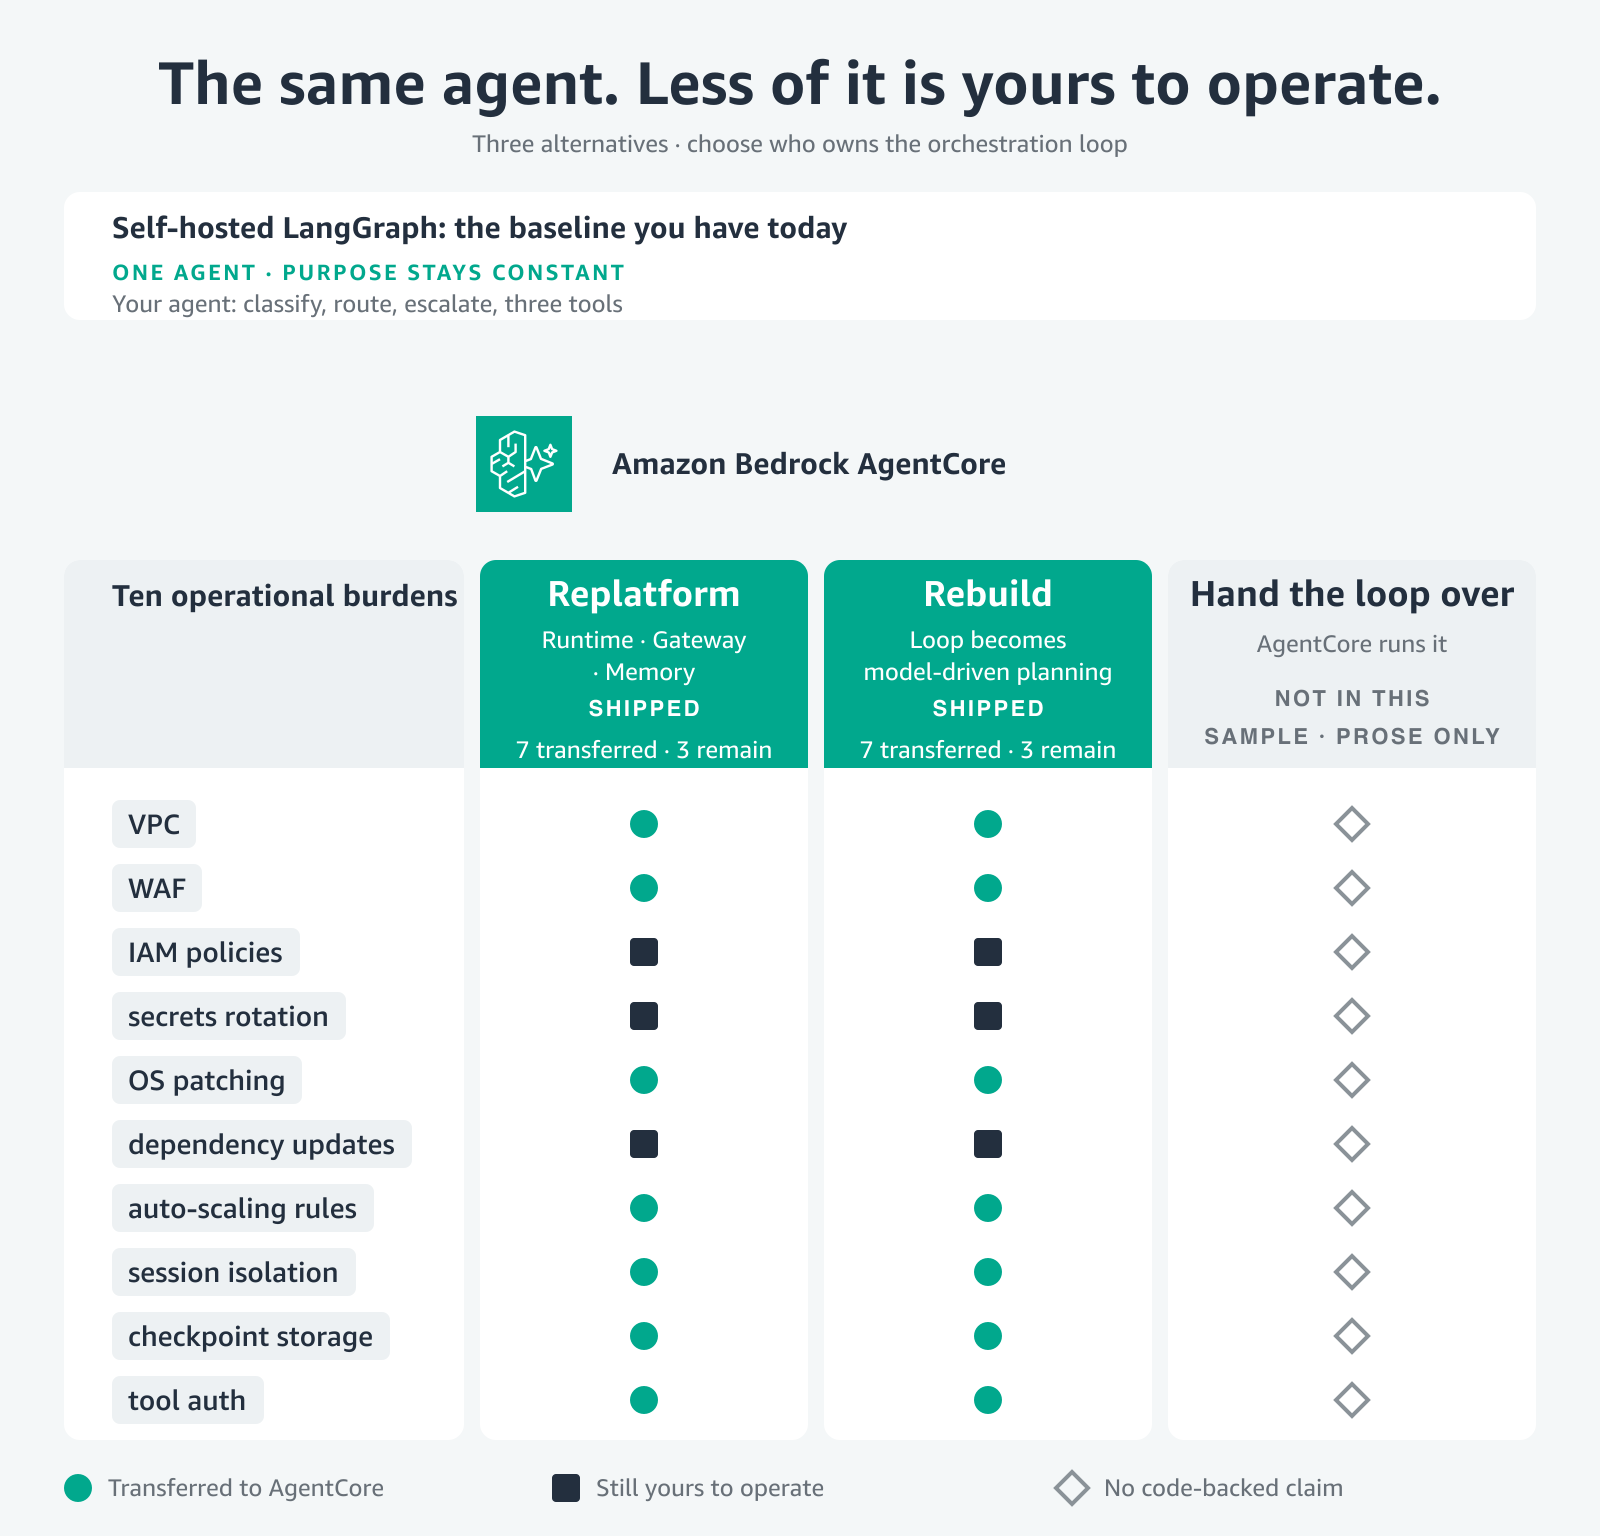
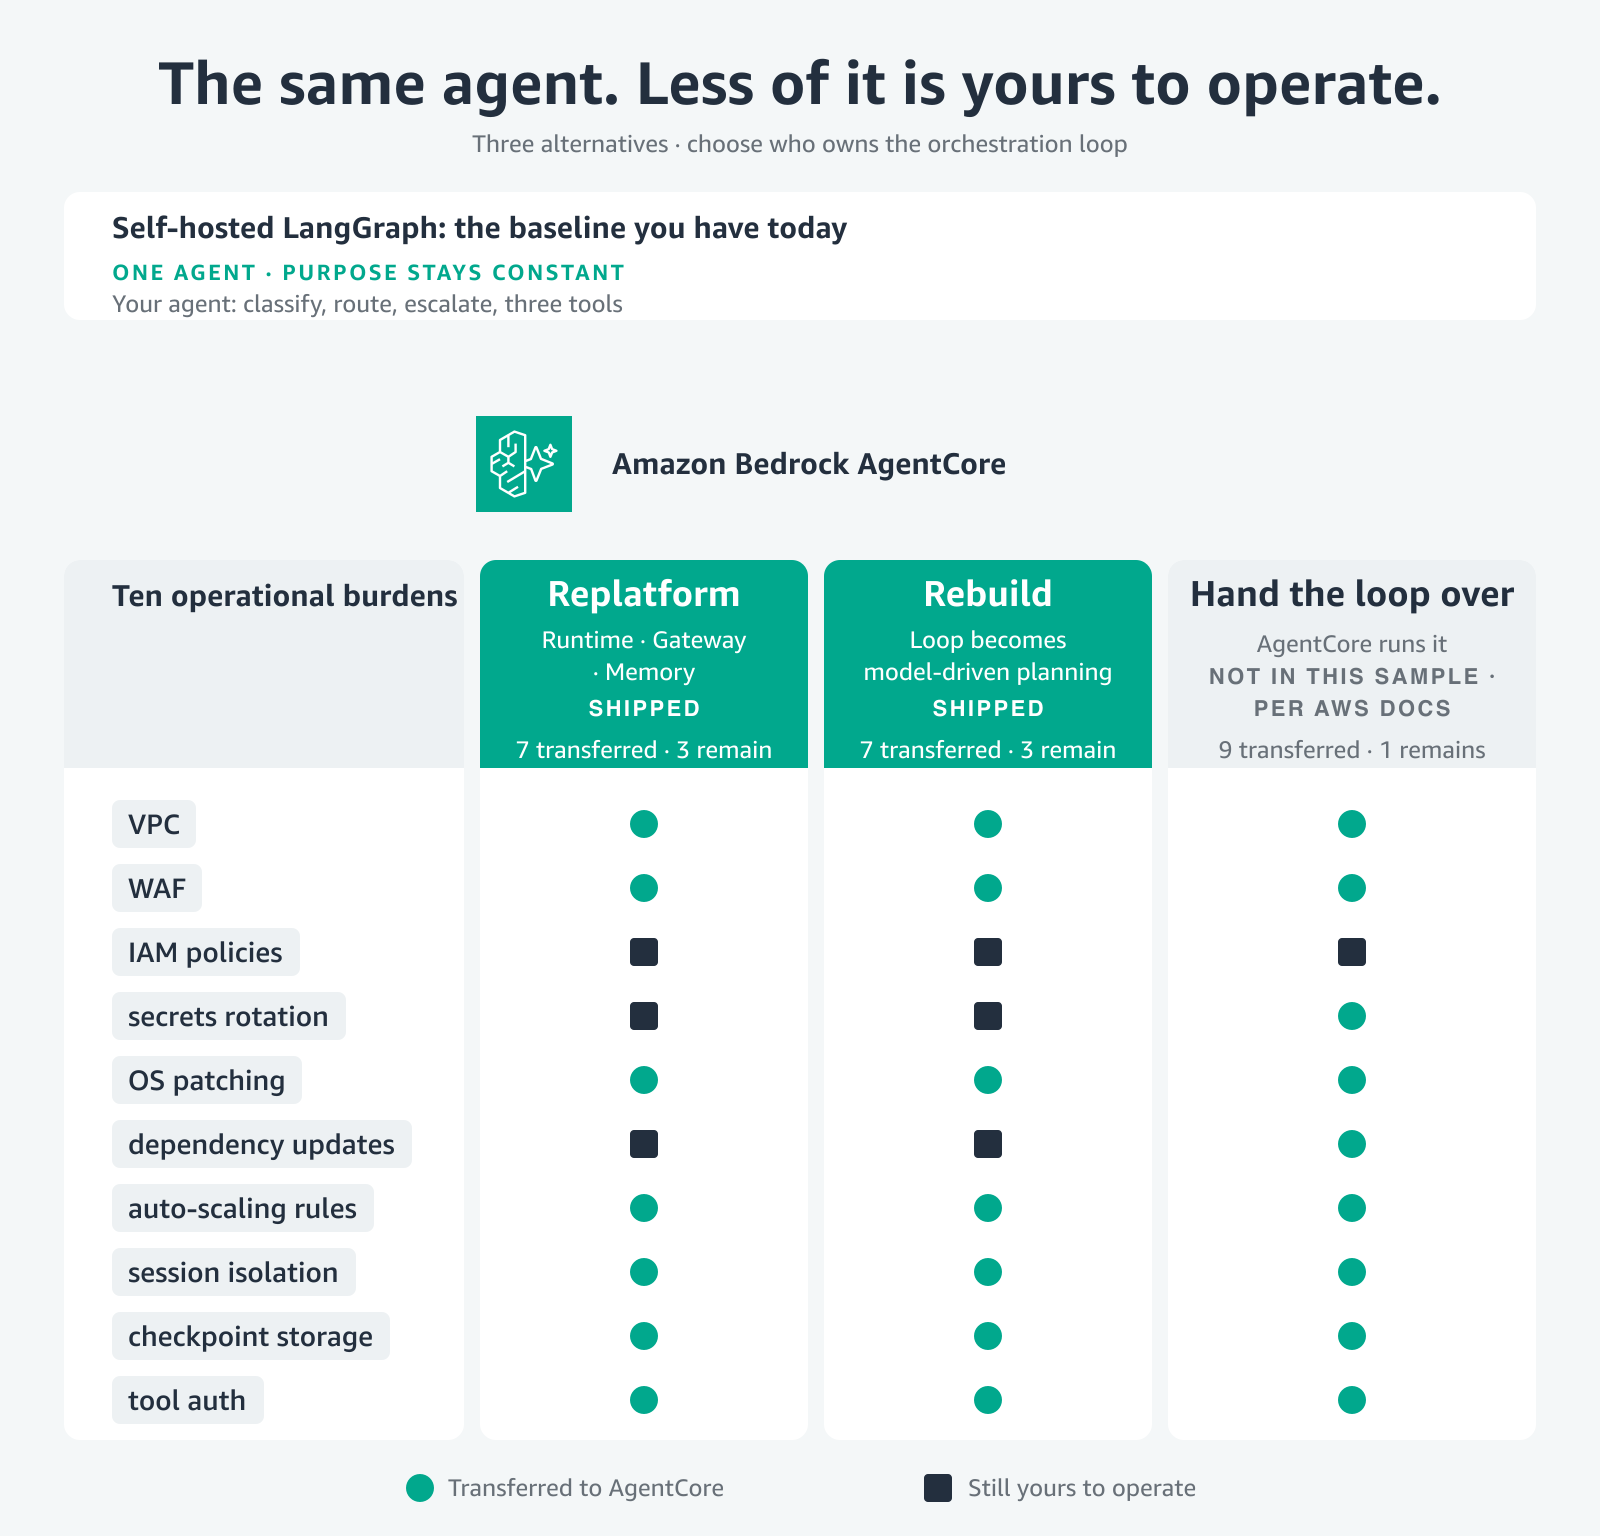
Say what the harness actually transfers
The third column showed ten identical open diamonds and the legend
called them no code-backed claim. That was redundant with the column's
own not-in-this-sample label, and worse, it said we did not know when
AWS publishes a feature grid for the harness.

Read against that grid, the column was understating the path it
describes. The harness runs inside Runtime, so every infrastructure
burden Runtime absorbs it absorbs too, which covers the seven the
shipped paths already transfer. It then adds two the shipped paths
cannot: the identity token vault is configuration for a harness and
customer code for Runtime, which is secrets rotation, and there is no
dependency set you own when the agent is configuration and the
framework is not yours to choose. IAM policies stay yours, because
nothing manages your execution role.

So the column now reads nine transferred and one remains, against seven
and three for both shipped paths, and the figure's argument finally
shows up in the figure: the more of the loop you hand over, the less of
the layer underneath it is yours. The diamond is gone, the legend is
down to two marks, and centring it fixed a 42px left lean that had been
there since the rebuild.

The evidence difference lives in the column header rather than the
glyphs. Two columns say SHIPPED in white on teal, this one says per AWS
docs in grey on grey, and the whole card is untinted where theirs are
filled.

Alt text in the README follows, in both places it appears.

diff --git a/README.md b/README.md
@@ -16,7 +16,7 @@ And here is what stage 2 changes, if you choose to rebuild the loop:
 
 Operating burden, across all three migration paths:
 
-![Comparison matrix titled "The same agent. Less of it is yours to operate." Subtitle: three alternatives, choose who owns the orchestration loop. A band across the top names the baseline, self-hosted LangGraph, and states that one agent's purpose stays constant across all three paths: classify, route, escalate, three tools. An Amazon Bedrock AgentCore icon labels the section beneath it. Ten operational burdens run down the left column: VPC, WAF, IAM policies, secrets rotation, OS patching, dependency updates, auto-scaling rules, session isolation, checkpoint storage, and tool auth. Three columns then give each path's outcome for every burden. Replatform, marked shipped, adopts AgentCore Runtime, Gateway and Memory and reports seven transferred and three remaining. Rebuild, also marked shipped, changes the loop to model-driven planning and reports the same seven transferred and three remaining. In both, the seven transferred to AWS are VPC, WAF, OS patching, auto-scaling rules, session isolation, checkpoint storage and tool auth, and the three still yours are IAM policies, secrets rotation and dependency updates. The third column, handing the loop over to AgentCore, is marked not in this sample and prose only, and every burden in it shows no code-backed claim. A legend defines the three marks: a filled circle for transferred to AgentCore, a filled square for still yours to operate, and an open diamond for no code-backed claim.](images/agentcore-migration-architecture.png)
+![Comparison matrix titled "The same agent. Less of it is yours to operate." Subtitle: three alternatives, choose who owns the orchestration loop. A band across the top names the baseline, self-hosted LangGraph, and states that one agent's purpose stays constant across all three paths: classify, route, escalate, three tools. An Amazon Bedrock AgentCore icon labels the section beneath it. Ten operational burdens run down the left column: VPC, WAF, IAM policies, secrets rotation, OS patching, dependency updates, auto-scaling rules, session isolation, checkpoint storage, and tool auth. Three columns then give each path's outcome for every burden. Replatform, marked shipped, adopts AgentCore Runtime, Gateway and Memory and reports seven transferred and three remaining. Rebuild, also marked shipped, changes the loop to model-driven planning and reports the same seven transferred and three remaining. In both, the seven transferred to AWS are VPC, WAF, OS patching, auto-scaling rules, session isolation, checkpoint storage and tool auth, and the three still yours are IAM policies, secrets rotation and dependency updates. The third column, handing the loop over to AgentCore, is marked not in this sample and per AWS docs, and reports nine transferred and one remaining: every burden shows a filled circle except IAM policies, which stays a filled square. A legend defines the two marks: a filled circle for transferred to AgentCore, and a filled square for still yours to operate.](images/agentcore-migration-architecture.png)
 
 ## Overview
 
